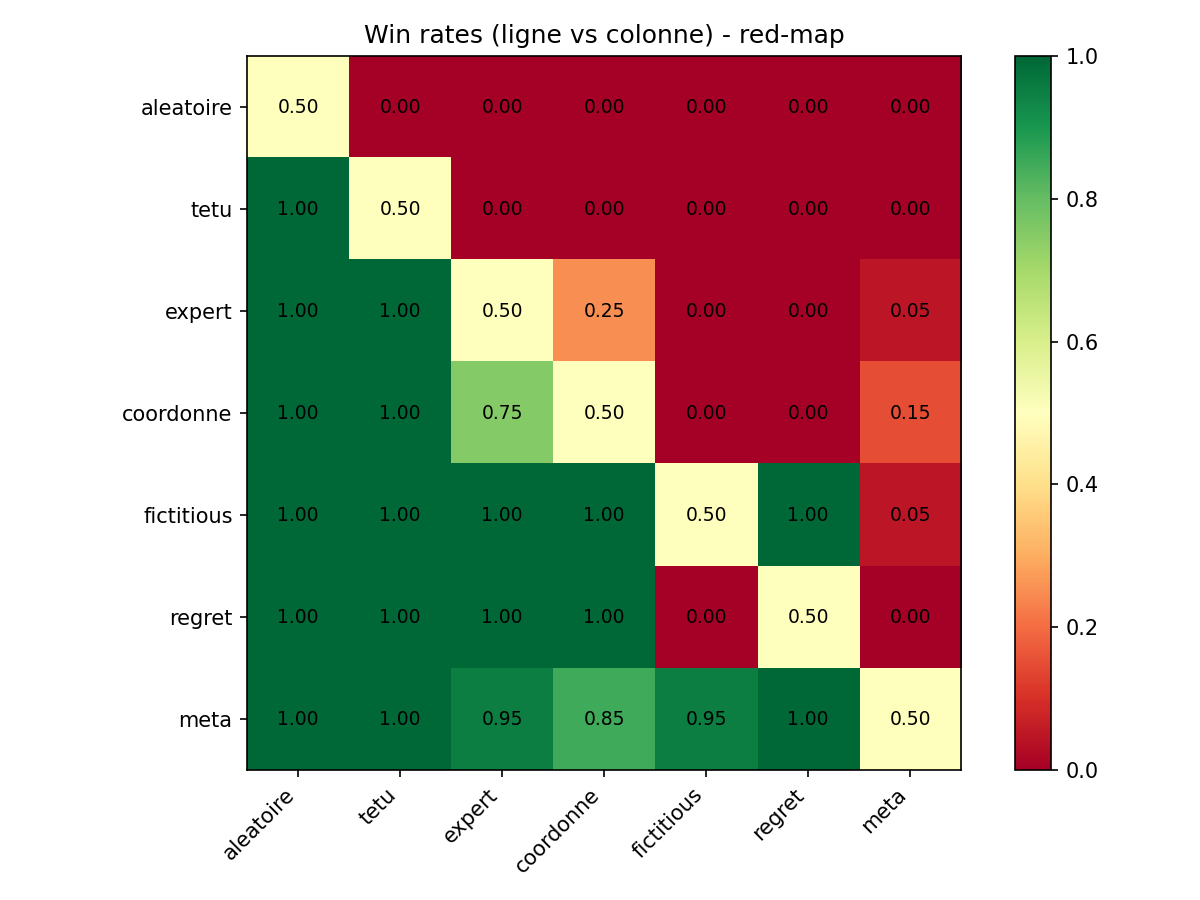
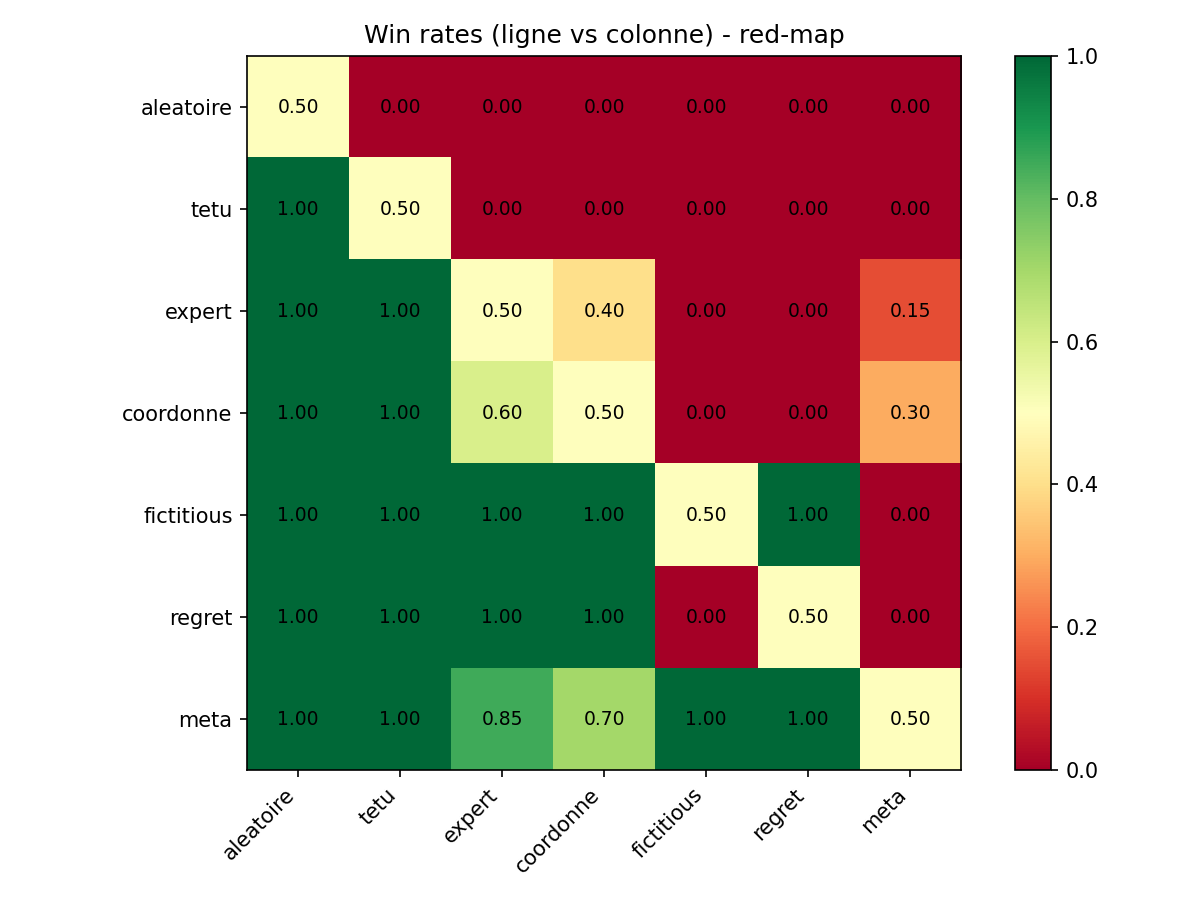
ajout du rapport + maj des heatmap

diff --git a/docs/rapport.md b/docs/rapport.md
@@ -1,18 +1,318 @@
 # Rapport de projet
 
 ## Groupe
-* Khaled Bouhabel
+
 * Belgacem Smaali
+* Khaled Bouhabel
+
 
 ## Description des choix importants d'implémentation
 
-Blablabla
+### Architecture générale
+
+On a séparé le code en trois modules principaux :
+- `utils.py` : toutes les fonctions de base (scoring, génération d'allocations, analyse)
+- `strategies.py` : les 7 stratégies d'allocation, de la plus simple à la plus avancée
+- `tournoi.py` : le système de round-robin pour évaluer les stratégies sans pygame
+
+L'idée c'est de pouvoir tester les stratégies rapidement sans lancer le jeu graphique. Le tournoi simule des matchs en utilisant directement la fonction de scoring, sans A*, sans sprites, sans affichage. Ca permet de faire tourner 1050 matchs en ~40 minutes au lieu de plusieurs heures.
+
+### Fonctions principales de `utils.py`
+
+#### `generer_allocations(nb_joueurs, nb_fioles, max_allocs=15000)`
+
+Génère toutes les façons de répartir les joueurs sur les fioles. Une allocation c'est un tuple qui dit combien de joueurs on envoie sur chaque fiole. Par exemple avec 8 joueurs et 5 fioles, `(3, 2, 1, 1, 1)` veut dire 3 joueurs sur la fiole 0, 2 sur la fiole 1, etc.
+
+On utilise l'algorithme étoiles et barres via une récursion : Ca donne C(n+k-1, k-1) allocations au total.
+
+Sur les petites cartes (8 joueurs, 5 fioles), il y a 495 allocations, c'est gérable. Mais sur les grandes cartes (17 joueurs, 8 fioles), on atteint 346 104 allocations. C'est trop lent pour les algorithmes qui itèrent dessus à chaque tour. Notre solution : on génère tout puis on échantillonne aléatoirement 15 000 avec `random.sample`.
+
+#### `score_fiole(type_fiole, nb_j0, nb_j1)`
+
+Calcule qui gagne une fiole en fonction de son type et du nombre de joueurs de chaque équipe. Les règles varient selon le type :
+
+#### `calculer_score(alloc0, alloc1, types_fioles, priorite=0)`
+
+Calcule le score d'un épisode en appelant `score_fiole` sur chaque fiole. Gère aussi le cas où les deux équipes mettent plus de 8 joueurs combinés sur une fiole : l'équipe prioritaire (qui alterne à chaque épisode) se place en premier, l'autre occupe les places restantes.
+
+#### `analyser_allocations(types_fioles, allocations, k=10, nb_sample=1000)`
+
+Evalue toutes les allocations pour trouver les meilleures. Pour chaque allocation, on simule des matchs contre un échantillon de 1000 adversaires aléatoires et on compte les victoires. On retourne la `meilleure_fixe` (celle qui gagne le plus souvent) et les `top_allocs` (les k=10 meilleures). Ces résultats sont pré-calculés une fois par carte et réutilisés par toutes les stratégies.
+
+#### `preparer_carte(nom_carte)`
+
+Point d'entrée qui orchestre tout : charge les types de fioles depuis le JSON, détecte le nombre de joueurs, génère les allocations et lance `analyser_allocations`. Retourne un dictionnaire avec tout ce qu'il faut pour créer les stratégies.
+
+#### `best_response(types_fioles, alloc_adv, allocations)`
+
+Teste toutes les allocations contre une allocation adverse fixe et retourne celle qui maximise le gain (notre score - score adverse). C'est utilisé par meta quand elle détecte un adversaire fixe.
+
+### Contrainte physique (max 8 par fiole)
+
+Sur le plateau de jeu, chaque fiole a 8 cases adjacentes. On ne peut pas placer plus de 8 joueurs autour d'une fiole. Dans le tournoi, on simule cette contrainte avec `appliquer_contrainte_physique` : si une allocation met plus de 8 joueurs sur une fiole, le surplus est redistribué sur les fioles les moins chargées. La fonction `calculer_score` gère aussi le cas où les deux équipes combinées dépassent 8 sur une même fiole, avec le système de priorité alternée.
+
+### Choix de 50 épisodes par match
+
+On joue 50 épisodes par match avec 10 runs par matchup. C'est un compromis entre significativité statistique et temps de calcul. Avec 7 stratégies, 5 cartes et 10 runs, ça fait 1050 matchs. Chaque match implique des itérations sur 15 000 allocations pour les stratégies adaptatives (fictitious, meta), donc le temps total est d'environ 40 minutes. Plus d'épisodes permettrait une meilleure convergence des stratégies adaptatives mais rendrait le tournoi trop long.
 
 ## Description des stratégies proposées
 
-Blablabla
+On a implémenté 7 stratégies, classées de la plus simple à la plus complexe. Chaque stratégie hérite de la classe `Strategie` qui définit l'interface commune : une méthode `choisir(historique, mon_equipe)` qui retourne une allocation.
+
+### 1. Aléatoire Uniforme (`aleatoire`)
+
+La stratégie de base : elle tire une allocation au hasard parmi toutes les allocations possibles. C'est notre référence pour évaluer les autres, une stratégie qui ne bat même pas l'aléatoire n'a pas d'intérêt. En pratique, avec 15 000 allocations, la probabilité de tomber sur une bonne est très faible, donc elle perd contre tout le monde.
+
+Chemin d'appel :
+1. `creer_strategie("aleatoire", types, carte_data)` crée une instance avec les allocations pré-générées
+2. A chaque tour, `choisir()` appelle `random.choice(self.allocations)` sur les 15 000 allocations
+3. L'allocation retournée est passée à `appliquer_contrainte_physique()` puis à `calculer_score()` dans le tournoi
+
+### 2. Têtu (`tetu`)
+
+Joue toujours la même allocation : la `meilleure_fixe`, calculée par `analyser_allocations`. Cette fonction évalue chaque allocation contre un échantillon d'adversaires aléatoires et garde celle qui gagne le plus souvent. C'est la meilleure stratégie si l'adversaire est aléatoire, mais elle est prédictible, un adversaire adaptatif peut la contrer facilement.
+
+Chemin d'appel :
+1. A l'initialisation, récupère `meilleure_fixe` depuis `carte_data` (pré-calculée par `preparer_carte` → `analyser_allocations`)
+2. A chaque tour, `choisir()` retourne toujours `self.alloc_fixe` (= `meilleure_fixe`)
+3. Aucun appel à des fonctions de utils pendant le jeu, tout est décidé à l'init
+
+### 3. Aléatoire Expert (`expert`)
+
+Tire au hasard parmi les 10 meilleures allocations (top_allocs) au lieu de toutes. Ces top allocations sont pré-calculées par `analyser_allocations` qui classe les allocations par win rate contre des adversaires aléatoires. C'est mieux que l'aléatoire pur car les options sont filtrées, mais ça reste non-adaptatif.
+
+Chemin d'appel :
+1. A l'initialisation, récupère `top_allocs` depuis `carte_data` (les 10 meilleures de `analyser_allocations`)
+2. A chaque tour, `choisir()` appelle `random.choice(self.top_allocs)` sur les 10 meilleures
+3. Comme têtu, pas d'appel à utils pendant le jeu
+
+### 4. Aléatoire Coordonné (`coordonne`)
+
+Comme expert mais avec des poids : les allocations les plus concentrées (celles avec un max plus élevé) sont jouées plus souvent. L'intuition c'est que concentrer ses joueurs est souvent plus efficace que les disperser (surtout sur les fioles vertes et rouges qui nécessitent un seuil minimum). Les poids sont calculés comme `max(allocation)` normalisé.
+
+Chemin d'appel :
+1. A l'initialisation, calcule les poids `max(alloc)` pour chaque top_alloc et normalise
+2. A chaque tour, `choisir()` fait un `np.random.choice` pondéré sur les top_allocs
+3. Les allocations concentrées (ex: `(5, 3, 0, 0, 0)` avec max=5) sont tirées plus souvent que les étalées (ex: `(2, 2, 2, 1, 1)` avec max=2)
+
+### 5. Fictitious Play (`fictitious`)
+
+Premier algorithme adaptatif. On joue la meilleure réponse à la distribution empirique des coups adverses.
+
+Concrètement, pour chaque allocation possible, on accumule le gain (notre score - score adversaire) qu'elle aurait donné contre chaque coup adverse passé. Puis on joue l'allocation avec le gain cumulé le plus élevé (`argmax`).
+
+Chemin d'appel :
+1. Tour 0 : joue `meilleure_fixe` (pas d'historique)
+2. Tour t > 0 :
+   - Récupère `alloc_adv = historique[-1][1]` (le dernier coup adverse)
+   - Pour chaque allocation i parmi les 15 000 : appelle `calculer_score(alloc_i, alloc_adv, types)` pour obtenir le gain hypothétique
+   - Accumule dans `gains[i] += p0 - p1`
+   - Joue `allocations[np.argmax(gains)]`
+
+C'est la stratégie qui fait le plus d'appels à `calculer_score` par tour (15 000 appels). Robinson (1951) a prouvé que fictitious play converge vers un équilibre de Nash dans les jeux à deux joueurs à somme nulle. Contre un adversaire fixe, il trouve le meilleur counter en 1 tour. Contre un adversaire adaptatif, les deux finissent par converger vers l'équilibre.
+
+### 6. Regret Matching (`regret`)
+
+Le principe : en jouant proportionnellement aux regrets positifs, le regret moyen converge vers 0, ce qui signifie qu'on approche un équilibre corrélé.
+
+Le regret d'une action c'est "combien j'aurais gagné de plus si j'avais joué cette action au lieu de ce que j'ai réellement joué". On accumule les regrets de chaque allocation, on garde les positifs et on sample proportionnellement.
+
+Notre implémentation utilise les `top_allocs` (10 meilleures allocations) comme espace d'actions au lieu des 15 000. C'est un compromis : plus d'allocations donnerait une meilleure exploration de l'espace de jeu, mais la convergence serait plus lente. La borne théorique de convergence est O(√(ln(N)/T)) où N est le nombre d'actions et T le nombre de tours : avec N=15 000 et T=50, le regret moyen est encore ~0.44 (trop bruité pour converger). Avec N=10, on obtient ~0.21, suffisant pour une convergence raisonnable en 50 épisodes. On a testé avec N=20 et N=50 : augmenter N améliore l'exploration mais rend regret trop fort (il converge vers des counters que les autres stratégies ne trouvent pas), au prix d'une plus grande variance entre les runs.
+
+Chemin d'appel :
+1. Tour 0 : joue `meilleure_fixe`
+2. Tour t > 0 :
+   - Récupère `alloc_adv` et `gain_reel = mon_pts - ses_pts` depuis l'historique
+   - Pour chaque top_alloc i (10 seulement) : appelle `calculer_score(top_alloc_i, alloc_adv, types)` pour obtenir `gain_alt`
+   - Met à jour `regrets[i] += gain_alt - gain_reel`
+   - Calcule `reg_pos = max(regrets, 0)`, normalise en probabilités
+   - Sample une allocation avec `np.random.choice(top_allocs, p=probas)`
+   - Si tous les regrets sont négatifs (on a joué le mieux possible), joue `meilleure_fixe`
+
+La différence clé avec fictitious : fictitious itère sur 15 000 allocations et prend le meilleur (déterministe). Regret itère sur 10 et sample (stochastique). Fictitious est plus précis, regret a de meilleures garanties théoriques mais converge plus lentement.
+
+### 7. Méta Stratégie (`meta`)
+
+Notre stratégie state-of-the-art qui combine plusieurs techniques pour s'adapter à n'importe quel adversaire. L'idée : au lieu d'utiliser un seul algorithme, on classifie l'adversaire et on adapte notre réponse.
+
+#### Classification de l'adversaire
+
+Après 5 observations de l'adversaire, on calcule l'entropie de Shannon de ses derniers coups :
+- Entropie basse (ratio < 0.3) ou 1 seule valeur unique -> adversaire fixe (type têtu)
+- Entropie haute (ratio > 0.7) → adversaire aléatoire (type expert/coordonné)
+- Entropie moyenne → adversaire adaptatif* (type fictitious/regret)
+
+La détection d'un adversaire fixe est rapide : dès qu'on voit 2 coups identiques consécutifs, on classifie comme "fixe" sans attendre les 5 observations.
+
+#### Réponse adaptée
+
+- Contre un adversaire fixe : `best_response`  : on teste toutes les 15 000 allocations contre son dernier coup et on prend la meilleure. C'est le counter parfait, il donne le gain maximal possible.
+
+- Contre un adversaire aléatoire : on joue au hasard parmi les `top_allocs`. Contre un adversaire imprévisible, diversifier nos coups est la meilleure défense  : ça évite d'être exploité par un pattern détectable.
+
+- Contre un adversaire adaptatif : comme fictitious play mais avec un decay de 0.85. Le decay donne plus de poids aux observations récentes, ce qui permet de réagir plus vite quand l'adversaire change de stratégie.
+
+#### Exploration epsilon-greedy
+
+5% du temps, on joue une top_alloc au hasard au lieu de suivre la stratégie. C'est le principe de l'epsilon-greedy (vu en cours de stats/proba) : un petit taux d'exploration pour ne pas rester bloqué dans un pattern prédictible.
+
+#### Optimisation pour les cartes bleues
+
+Les fioles bleues ont une mécanique spéciale : un joueur seul (spy) bat un groupe de 2+. C'est un mécanisme de sabotage qui change la dynamique du jeu.
+
+Sur les cartes entièrement bleues (blue-map), on pré-calcule un `spread_blue` au tour 0 : 1 joueur sur chaque fiole, surplus sur une seule fiole (cappé à 8 joueurs max par contrainte physique). Dès le tour 1, on adapte normalement.
+
+Sur les cartes mixtes, `_optimiser_bleues` fait deux choses après chaque choix d'allocation :
+1. Spy-in : si l'adversaire met régulièrement 2+ joueurs sur une fiole bleue où on a 0, on vole 1 joueur d'une autre fiole pour placer un spy et gagner cette fiole gratuitement.
+2. Réduction : si on a 2+ joueurs sur une fiole bleue, on réduit à 1 (un spy suffit) et on redistribue le surplus sur les fioles non-bleues.
+
+#### Reclassification
+
+L'adversaire peut changer de comportement au cours du match. On reclassifie tous les 5 tours pour s'adapter. Par exemple, un adversaire qui commence aléatoire puis converge vers une stratégie fixe sera détecté et contré.
+
+Chemin d'appel complet :
+1. A l'initialisation : `preparer_carte` fournit allocations, top_allocs, meilleure_fixe. Meta pré-calcule `spread_blue` et les indices de fioles par type.
+2. Tour 0 : `_alloc_defaut()` retourne `spread_blue` sur blue-map, sinon `random.choice(top_allocs)` passé dans `_optimiser_bleues`
+3. Tour t > 0 :
+   - Récupère `alloc_adv` et `gain_reel` depuis l'historique
+   - Pour chaque allocation i (15 000) : appelle `calculer_score(alloc_i, alloc_adv, types)`, met à jour `weighted_gains[i]` (avec decay ×0.85) et `regrets[i]` (sans decay)
+   - Si t est multiple de 5 : `_classifier()` reclassifie l'adversaire
+   - 5% chance : exploration (random top_alloc)
+   - Sinon : réponse adaptée selon la classification
+   - Post-traitement : `_optimiser_bleues` sur cartes mixtes
 
 ## Description des résultats
-Comparaison entre les stratégies. Bien indiquer les cartes utilisées.
 
-Blablabla
+### Protocole expérimental
+
+Le tournoi est un round-robin : chaque paire de stratégies s'affronte sur chaque carte. Pour la significativité statistique, chaque matchup est répété 10 fois (10 runs de 50 épisodes). Le classement compte les victoires totales (un match gagné = 1 victoire, un draw = 0 pour les deux).
+
+Cartes utilisées :
+- yellow-map : 5 fioles jaunes, 8 joueurs/équipe (495 allocations)
+- red-map : 5 fioles rouges, 8 joueurs/équipe (495 allocations)
+- green-map : 8 fioles vertes, 17 joueurs/équipe (15 000 allocations échantillonnées)
+- blue-map : 8 fioles bleues, 17 joueurs/équipe (15 000 allocations échantillonnées)
+- mixed-map : 9 fioles mixtes, 17 joueurs/équipe (15 000 allocations échantillonnées)
+
+### Classement global
+
+| Rang | Stratégie | Victoires (/300) |
+|------|-----------|-------------------|
+| 1 | meta | 255 |
+| 2 | fictitious | 240 |
+| 3 | regret | 165 |
+| 4 | coordonne | 118 |
+| 5 | expert | 108 |
+| 6 | tetu | 80 |
+| 7 | aleatoire | 0 |
+
+Meta termine première avec 255 victoires, 15 points devant fictitious (240). On observe une hiérarchie claire en trois paliers : les stratégies adaptatives (meta, fictitious, regret) dominent les stratégies statiques (coordonne, expert, tetu), qui elles-mêmes écrasent l'aléatoire.
+
+### Analyse par carte
+
+#### Yellow-map et Red-map (petites cartes, 495 allocations)
+
+Ces cartes sont les plus "propres" car toutes les allocations sont énumérées (pas d'échantillonnage). Les résultats sont très nets :
+
+- Meta domine tout le monde (10-0 contre chaque adversaire sur yellow, quasi-parfait sur red)
+- Fictitious est second, avec 10-0 contre regret grâce à son approche déterministe (argmax sur 15 000 allocations) vs le sampling bruité de regret (sur 10 top_allocs)
+- Tetu, expert, coordonné et regret font de nombreux draws entre eux sur yellow-map
+
+#### Le phénomène des draws sur yellow-map
+
+C'est un des résultats les plus marquants du tournoi. Sur yellow-map, on observe un nombre anormalement élevé de draws entre les stratégies statiques :
+
+- `tetu vs expert : 0W-10D-0L` (score 59.8 vs 59.8)
+- `tetu vs coordonne : 0W-10D-0L` (score 58.8 vs 58.8)
+- `tetu vs regret : 0W-10D-0L` (score 0.0 vs 0.0 !)
+- `expert vs coordonne : 0W-10D-0L`
+- `expert vs regret : 0W-10D-0L`
+- `coordonne vs regret : 0W-10D-0L`
+
+Le cas le plus frappant c'est `tetu vs regret : score 0.0 vs 0.0`. Zéro point pour les deux équipes sur 50 épisodes, à chaque run. Comment c'est possible ?
+
+L'explication est liée à l'équilibre de Nash : sur yellow-map, la `meilleure_fixe` est `(2, 2, 2, 1, 1)`. Tetu la joue à chaque tour par définition. Regret matching, en accumulant ses regrets, converge aussi vers cette allocation car c'est objectivement la meilleure réponse à elle-même. Les deux finissent par jouer exactement la même chose.
+
+Or sur les fioles jaunes, si les deux équipes envoient le même nombre de joueurs (2 vs 2 ou 1 vs 1), c'est une égalité : personne ne marque. Toutes les fioles sont en égalité à chaque épisode, d'où le score 0-0 systématique.
+
+C'est un résultat théoriquement cohérent : quand deux stratégies convergent vers le même équilibre de Nash, le jeu se stabilise dans un état où aucun des deux ne peut améliorer sa situation unilatéralement. Les scores 59.8 vs 59.8 pour tetu vs expert s'expliquent de la même façon : expert joue aléatoirement parmi les top_allocs qui sont toutes proches de meilleure_fixe, donc les écarts sont minimes et les scores s'équilibrent.
+
+Seules les stratégies adaptatives (fictitious et meta) cassent cet équilibre en trouvant des counters spécifiques grâce à leur capacité d'adaptation en temps réel.
+
+#### Green-map (tout vert)
+
+C'est la carte la plus intéressante théoriquement. Les fioles vertes fonctionnent par majorité : il faut un total ≥ 3 joueurs sur la fiole et la majorité gagne. Cela crée un jeu de type matching pennies où aucune stratégie pure ne domine.
+
+Les résultats le confirment :
+- expert vs meta : 5W-2D-3L → expert bat meta
+- coordonne vs meta : 7W-1D-2L → coordonné aussi
+- regret vs meta : 7W-1D-2L → regret domine meta
+
+Green-map est la carte où meta montre ses limites. Meta classifie expert, coordonné et regret comme "aleatoire" (haute entropie) et joue des top_allocs au hasard. Mais sur une carte où la mécanique de majorité crée un jeu de type matching pennies, la classification n'apporte aucun avantage. Pire, les stratégies adverses (même simples comme expert) arrivent à accumuler plus de victoires grâce à la nature symétrique du jeu.
+
+C'est cohérent avec le théorème du minimax de von Neumann : sur cette carte, la stratégie optimale est mixte (probabiliste). Aucune stratégie déterministe ou adaptative ne peut dominer. Meta, malgré sa complexité, ne fait pas mieux qu'un simple tirage pondéré parmi les meilleures allocations.
+
+#### Blue-map (tout bleu)
+
+La mécanique spy des fioles bleues (1 joueur bat 2+) crée une dynamique unique. Meta y joue son `spread_blue` à chaque tour : 1 joueur (spy) sur chaque fiole, le surplus concentré sur une seule fiole. Par exemple `(8, 3, 1, 1, 1, 1, 1, 1)`.
+
+- Meta 10-0 contre expert, coordonne, regret : ces stratégies jouent depuis les top_allocs sans chercher le counter spécifique au spread. Les spies de meta captent les fioles où l'adversaire concentre 2+ joueurs, et l'adversaire ne parvient pas à exploiter les fioles où meta a son surplus.
+
+- Meta 0W-10D contre tetu : tetu joue aussi une allocation fixe similaire au spread (type `(1, 1, 10, 1, ...)`). Les deux jouent des spreads symétriques, chacun espionne le surplus de l'autre, résultat : draws systématiques.
+
+- Fictitious 10-0 contre meta : c'est le résultat le plus intéressant. Meta joue toujours le même spread_blue (allocation fixe). Fictitious, avec ses 15 000 allocations et son argmax, trouve le counter optimal en 1 tour : il place 1 spy sur chaque fiole où meta a du surplus (8 et 3), et concentre le reste sur une seule fiole. Résultat par épisode : fictitious gagne 2 fioles (spy sur le surplus de meta), meta gagne 1 fiole (spy sur la concentration de fictitious), 5 fioles à personne. Score : 2-1 par épisode, soit ~100-50 sur 50 épisodes.
+
+#### Le dilemme du surplus sur blue-map
+
+C'est un résultat fondamental de cette carte. Avec 17 joueurs et 8 fioles, chaque équipe doit placer un surplus de 9 joueurs quelque part (17 - 8 = 9 joueurs en plus du minimum de 1 par fiole). Or la mécanique spy fait que tout groupe de 2+ joueurs est vulnérable à un spy adverse.
+
+C'est un vrai dilemme :
+- Si on concentre le surplus sur 1 fiole (spread_blue) : on minimise le nombre de fioles vulnérables (2 fioles avec 2+), mais l'adversaire peut cibler précisément ces 2 fioles avec des spies.
+- Si on répartit le surplus sur plusieurs fioles : on crée plus de fioles vulnérables, ce qui donne plus de cibles aux spies adverses.
+
+Dans les deux cas, l'adversaire peut exploiter le surplus avec des spies. C'est un jeu qui n'a pas d'équilibre de Nash en stratégie pure : toute allocation fixe a un counter qui la bat. La stratégie optimale serait mixte (varier aléatoirement le placement du surplus), mais ça nécessiterait de sacrifier la stabilité du spread.
+
+Meta fait le choix de jouer spread_blue à chaque tour : c'est la stratégie la plus robuste contre les stratégies simples (0 défaite, que des victoires ou draws), au prix d'une vulnérabilité face à fictitious qui exploite la prédictibilité du spread fixe.
+
+#### Mixed-map (carte mixte)
+
+La carte la plus complexe avec 4 types de fioles (jaune, verte, jaune, rouge, bleue, rouge, jaune, verte, jaune). Meta excelle ici grâce à ses optimisations spécifiques :
+
+- Meta 10-0 contre tetu, coordonne, regret : le classifier détecte tetu comme "fixe" et joue `best_response`. Contre coordonne et regret, le weighted_gains avec decay et l'optimisation `_optimiser_bleues` donnent l'avantage.
+- Meta 9-0 contre expert : quasi-parfait grâce au classifier
+- Fictitious vs meta : 4W-0D-6L : match serré. Fictitious (argmax déterministe sur 15 000 allocations) est parfois plus précis, mais meta garde un léger avantage grâce à ses optimisations spécifiques sur la fiole bleue de la carte
+
+L'optimisation `_optimiser_bleues` (spy-in) aide meta sur cette carte : quand l'adversaire met régulièrement 2+ joueurs sur la fiole bleue, meta vole un joueur d'une autre fiole pour placer un spy et gagner ce point gratuitement.
+
+### Analyse transversale
+
+#### Pourquoi meta est première
+
+Meta combine trois avantages que les autres stratégies n'ont pas simultanément :
+1. Counter immédiat des adversaires fixes (best_response, meilleur que la convergence graduelle de fictitious/regret)
+2. Robustesse contre les adversaires aléatoires (diversification via top_allocs)
+3. Optimisations spécifiques (spy-in bleue, spread_blue au tour 0)
+
+#### Pourquoi fictitious bat regret
+
+Fictitious utilise les 15 000 allocations avec `argmax` (déterministe). Regret utilise seulement 10 top_allocs avec sampling proportionnel (stochastique). Le ratio taille d'espace × qualité de sélection favorise largement fictitious :
+- Fictitious explore tout l'espace et choisit le meilleur
+- Regret explore un petit sous-ensemble et ajoute du bruit avec le sampling
+
+La convergence de regret matching nécessite O(√(ln(N)/T)) tours, soit ~15 tours avec N=10 et T=50. C'est suffisant pour converger sur les petites cartes (yellow, red), mais sur les grandes cartes l'espace restreint de 10 allocations limite sa capacité à trouver les bons counters.
+
+#### Convergence et équilibres
+
+Nos résultats illustrent plusieurs concepts de théorie des jeux :
+
+- Équilibre de Nash : sur les cartes simples (yellow, red), fictitious play converge vers l'équilibre. C'est visible par ses victoires 10-0 contre la plupart des adversaires. Les draws systématiques sur yellow-map (score 0-0 entre tetu et regret) sont une manifestation directe de cet équilibre : les deux jouent la même allocation optimale, aucun ne peut améliorer unilatéralement.
+
+- Équilibre corrélé : regret matching converge vers un équilibre corrélé, un concept plus général que Nash. En pratique, avec notre implémentation restreinte à 10 allocations, la convergence est partielle mais suffisante pour battre les stratégies statiques.
+
+- Théorème d'approchabilité de Blackwell : c'est le résultat théorique sous-jacent qui garantit la convergence de regret matching. Il assure que le regret moyen converge vers 0 quand T tend vers l'infini. En pratique avec T=50, la convergence est partielle, ce qui explique les performances moyennes de regret par rapport à fictitious.
+
+- aucune stratégie ne domine toutes les autres sur toutes les cartes. Meta perd contre regret sur green-map. C'est un résultat fondamental : dans un jeu compétitif, toute stratégie a des faiblesses exploitables.
+
+#### Impact du nombre d'épisodes
+
+Le choix de 50 épisodes par match est un compromis. Avec moins d'épisodes (20), les stratégies adaptatives (fictitious, meta) n'ont pas le temps de converger et les stratégies statiques (tetu) deviennent plus compétitives. Avec plus d'épisodes (100+), les stratégies adaptatives dominent encore plus car elles ont le temps de classifier l'adversaire et d'affiner leur réponse. Le seuil de 50 est le point où les stratégies adaptatives commencent à avoir un avantage clair sans rendre le tournoi trop long.
